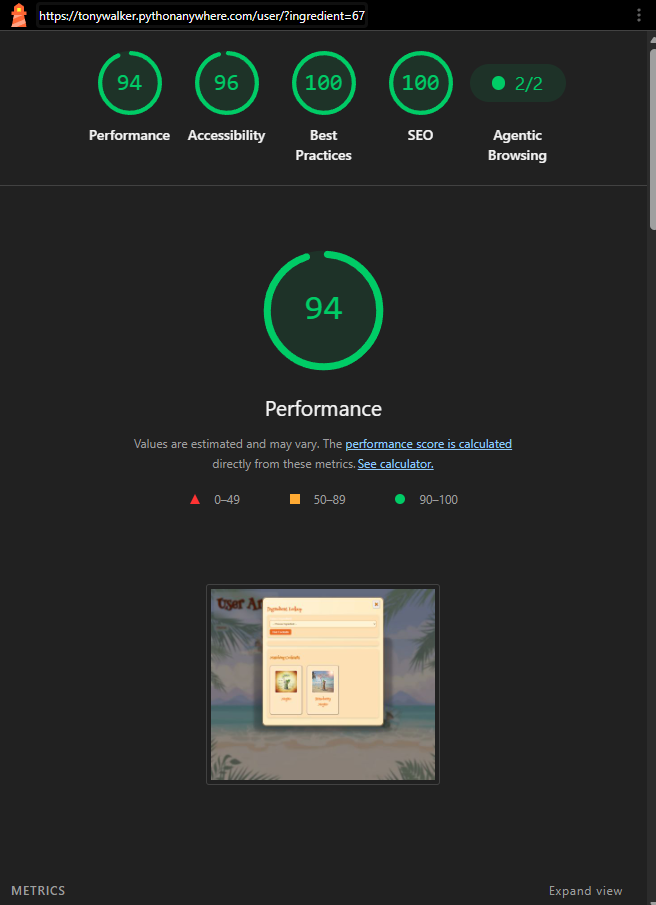
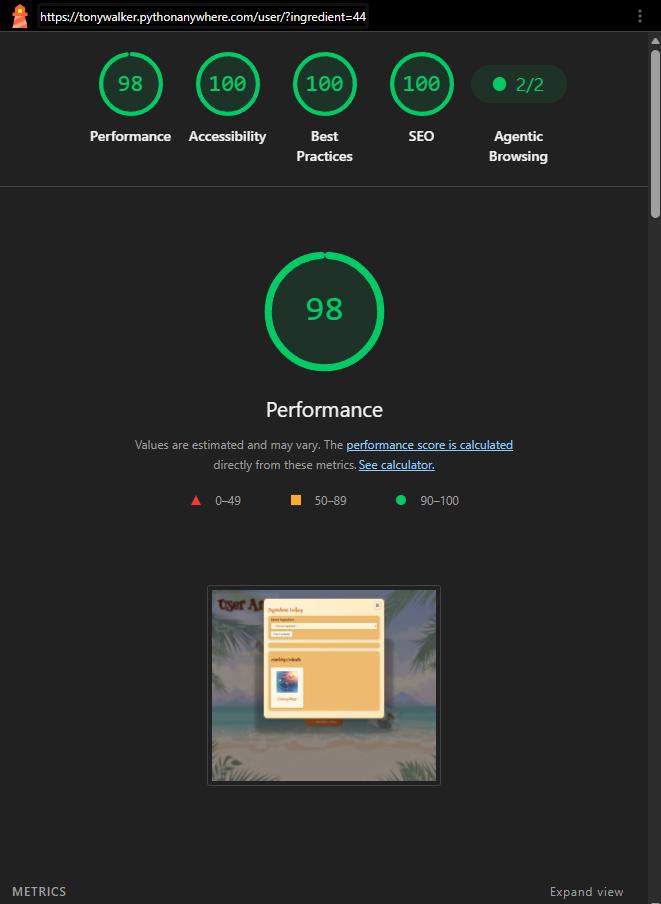
removed some redundant coding comments andded completed header comment for documentation and pushing for live validation screenshots

diff --git a/templates/admin.html b/templates/admin.html
@@ -1,5 +1,8 @@
 <!DOCTYPE html>
-<!-- Page complete – Tony, 3/09/2026 admin.html -->
+<!---===============================
+Page complete – Tony, 4/10/2026
+admin.html
+===============================-->
 {% load static %}
 <html lang="en">
 <!--⭐ do not auto format page contains template variables  ⭐  -->
@@ -550,8 +553,8 @@
         <button type="button" class="close" data-close="confirmDeleteCocktailModal"
           aria-label="Close Confirm Delete Cocktail Modal">&times;</button>
   
-        <!-- Dino Warning Icon -->
-        <img src="{% static 'cocktails/icons/dino-warning.png' %}" class="modal-image  dynamite"
+        <!-- Dynamite Warning Icon -->
+        <img src="{% static 'cocktails/icons/dynamite-warning.png' %}" class="modal-image  dynamite"
           alt="Danger Dynamite  Icon">
   
         <h2 class="modal-title">Delete Cocktail?</h2>
@@ -735,7 +738,7 @@
 IMPORTANT:
 Do NOT auto‑format this <script> block.
 
-Formatters (Prettier, VS Code, Beautify, etc.) will break Django template tags
+Formatters will break Django template tags
 by changing {{ c.id }} into { { c.id } }, which causes a fatal JS syntax error.
 
 Leave spacing and braces EXACTLY as written.

diff --git a/templates/user.html b/templates/user.html
@@ -1,5 +1,8 @@
 <!DOCTYPE html>
-<!-- Page complete – Tony, 1/09/2026 user.html -->
+<!---===============================
+Page complete – Tony, 4/10/2026
+user.html
+===============================-->
 {% load static %}
 <html lang="en">
 
@@ -125,7 +128,7 @@
     <!-- Mobile + Responsive -->
     <meta name="viewport" content="width=device-width, initial-scale=1">
 
-    <!-- Basic SEO -->
+
     <meta name="description"
         content="Shaken!Stirred User Area, Contains user  forum and Reverse lookup for ingredients.">
     <meta name="keywords" content="cocktails, ShakenNotStirred">
@@ -137,8 +140,6 @@
     <!-- Performance: Preconnect to Google Fonts -->
     <link rel="preconnect" href="https://fonts.googleapis.com">
     <link rel="preconnect" href="https://fonts.gstatic.com" crossorigin>
-
-    <!-- Google Fonts -->
     <link rel="preload" as="style" onload="this.onload=null;this.rel='stylesheet'" href="https://fonts.googleapis.com/css2?family=Henny+Penny&family=Englebert&display=swap">
 
     <link rel="stylesheet" href="{% static 'cocktails/user.css' %}">

diff --git a/templates/lookup_cocktail_detail.html b/templates/lookup_cocktail_detail.html
@@ -1,5 +1,8 @@
 <!DOCTYPE html>
-<!-- Page complete – Tony, 1/10/2026 cocktail lookup -->
+<!---===============================
+Page complete – Tony, 4/10/2026
+lookup_cocktail_detail.html
+===============================-->
 <!--⭐ do not auto format page contains template variables  ⭐  -->
 {% load static %}
 <html lang="en">

diff --git a/templates/user/thread_detail.html b/templates/user/thread_detail.html
@@ -1,4 +1,7 @@
-<!-- Page complete – Tony, 3/09/2026 thread_detail.html -->
+<!---===============================
+Page complete – Tony, 4/10/2026
+thread_detail.html
+===============================-->
  <!--⭐ do not auto format page contains template variables  ⭐  -->
  {% extends 'base.html' %}
 {% load static %}

diff --git a/templates/dashboard_forum_section.html b/templates/dashboard_forum_section.html
@@ -1,4 +1,7 @@
-<!-- Page complete – Tony, 2/09/2026 forum thread section -->
+<!---===============================
+Page complete – Tony, 4/10/2026
+dashboard_forum_section.html
+===============================-->
 <!--⭐ do not auto format page contains template variables ⭐  -->
 {% load static %}
 

diff --git a/templates/forum_thread_section.html b/templates/forum_thread_section.html
@@ -1,4 +1,7 @@
-<!-- Page complete – Tony, 2/09/2026 forum reply section -->
+<!---===============================
+Page complete – Tony, 4/10/2026
+forum_thread_section.html
+===============================-->
  <!--⭐ do not auto format page contains template variables  ⭐  -->
 {% load static %}
 

diff --git a/templates/user/forum.html b/templates/user/forum.html
@@ -1,4 +1,7 @@
-<!-- Page complete – Tony, 3/09/2026 forum.html -->
+<!---===============================
+Page complete – Tony, 4/10/2026
+forum.html
+===============================-->
  <!--⭐ do not auto format page contains template variables ⭐  -->
 {% extends 'base.html' %}
 

diff --git a/templates/user/new_thread.html b/templates/user/new_thread.html
@@ -1,4 +1,7 @@
-<!-- Page complete – Tony, 3/09/2026 new_thread.html -->
+<!---===============================
+Page complete – Tony, 4/10/2026
+new_thread.html
+===============================-->
  {% extends 'base.html' %}
 {% load static %}
 
